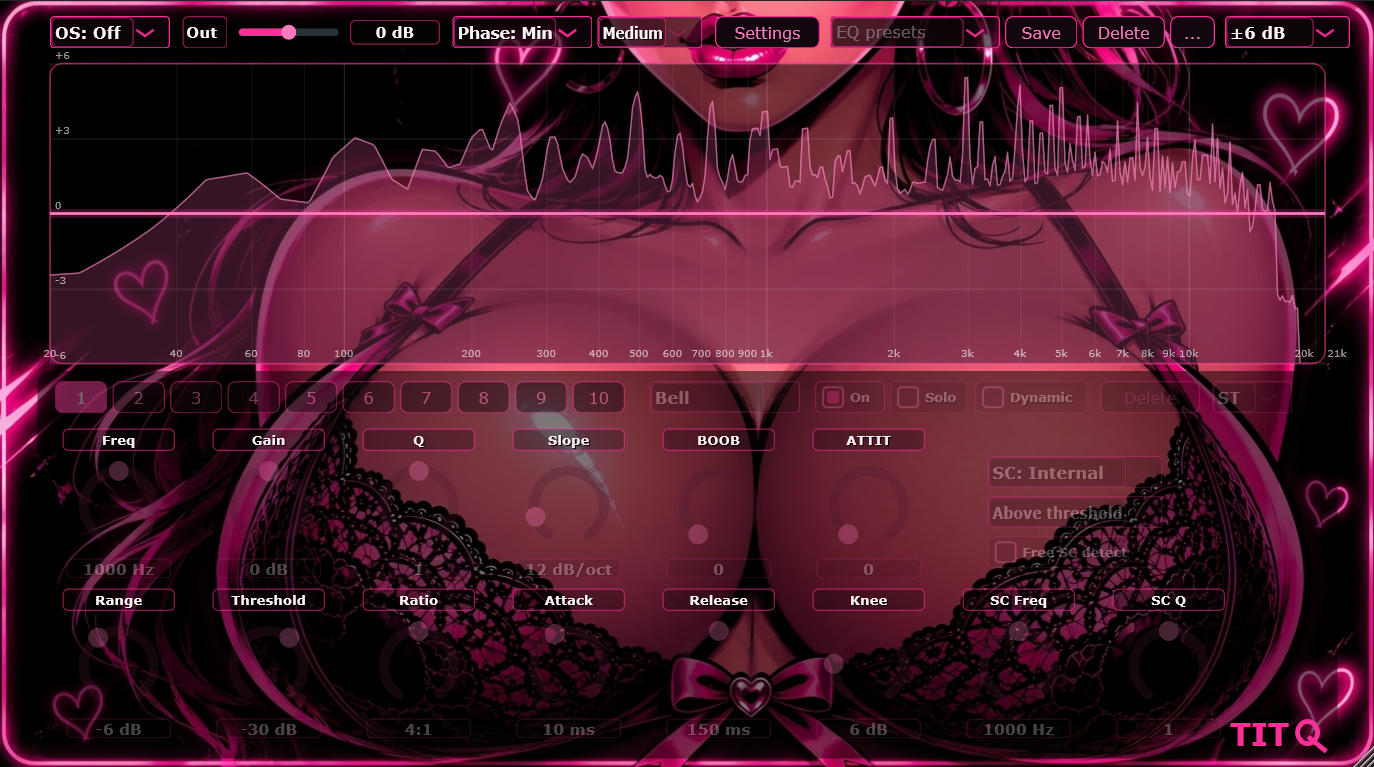
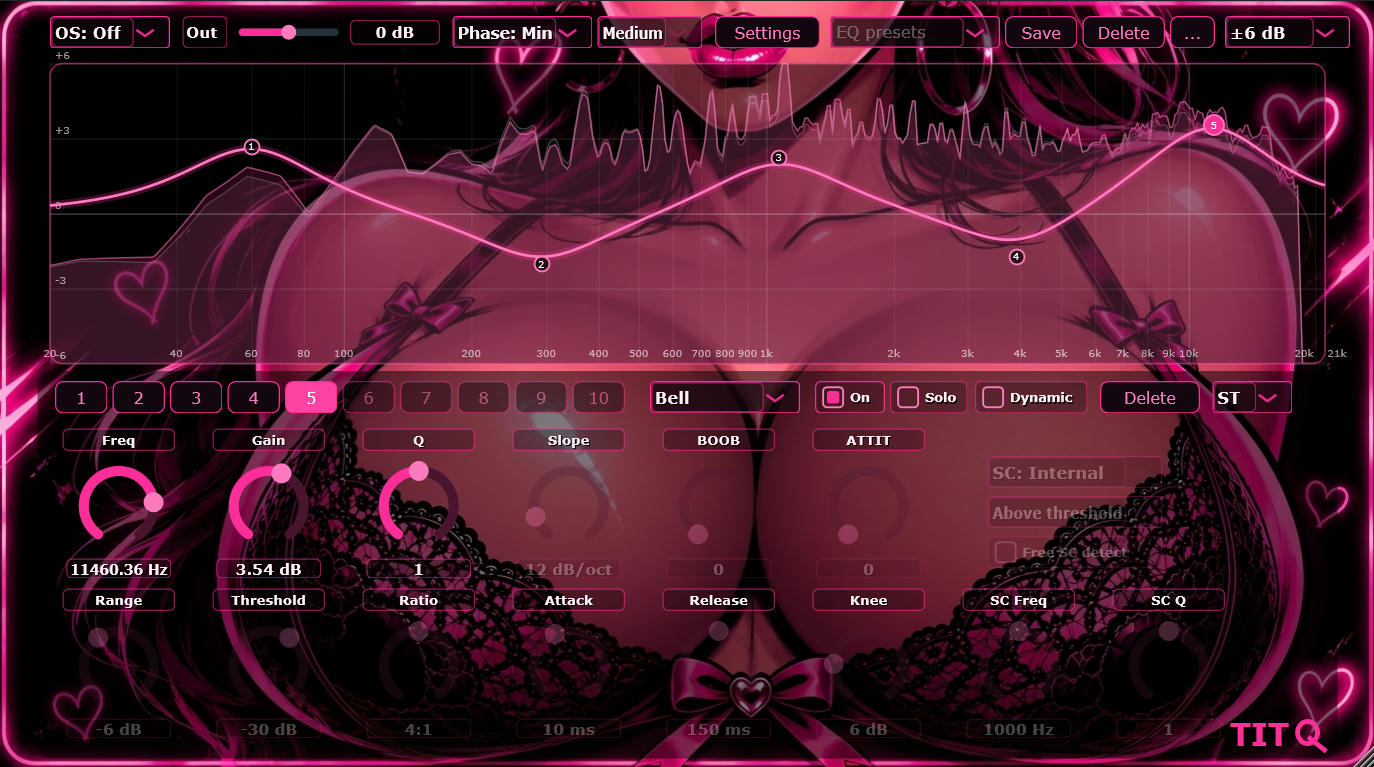
README: screenshot with EQ curve
Claude-Session: https://claude.ai/code/session_01NGdex2Zk2USLUXKuQPvvQN

diff --git a/README.md b/README.md
@@ -2,7 +2,7 @@
 
 **Free 10-band equaliser (VST3 for Windows and macOS, AU for macOS)** with per-band dynamics, sidechain, character bands and **minimum, linear or mixed phase**. No registration, no ads, no limits.
 
-![TIT Q running in a DAW with the live spectrum](docs/tit-q.jpg)
+![TIT Q with EQ curve and live spectrum](docs/tit-q.jpg)
 
 ## Features
 - 10 bands: bell, low/high shelf, low/high cut (continuous slopes from 6 dB/oct up), tilt shelf, and character bands: **SLTIT, TIT 250, AP TIT, TIT SKY, BOOBTEC**. The character bands follow curves measured on reference equalisers (frequency, Q and gain interaction).
